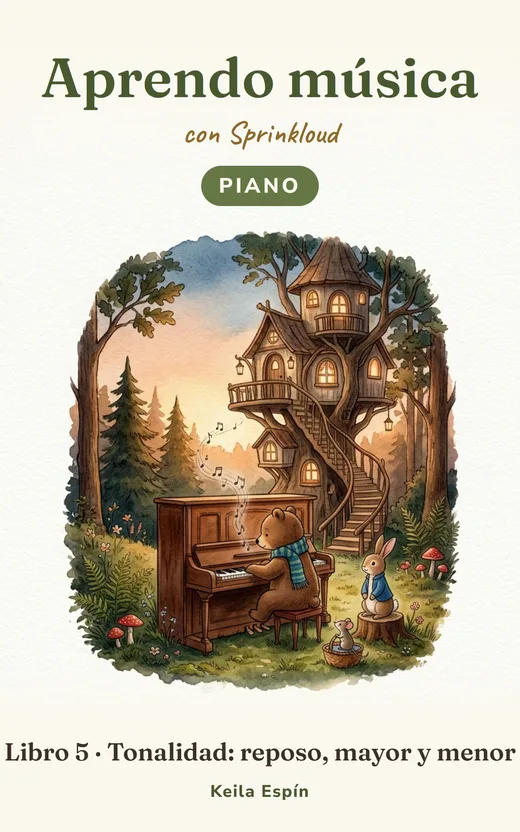
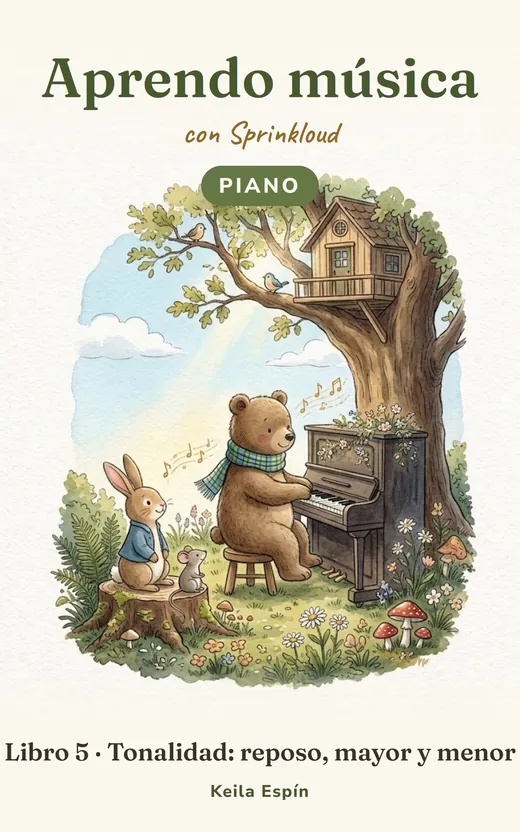
Planes después del video de la clase y portadas nuevas de los libros 5 a 7

diff --git a/index.html b/index.html
@@ -83,7 +83,25 @@
     <div class="cifra revela"><i class="ph ph-device-mobile"></i><b>App</b><span>Aprende teoría de forma divertida.</span></div>
   </section>
 
-  <!-- 2b. Planes, arriba: lo más importante de la página es que pague (dueña, 2-nov) -->
+
+  <!-- 3. Así es una clase: el video de Keila enseñando violín -->
+  <section class="clase" id="clase">
+    <div class="clase-video revela">
+      <video src="/sitio/img/clase-violin.mp4" poster="/sitio/img/clase-violin-poster.webp" controls playsinline preload="none" width="540" height="960" aria-label="Keila Espín explica cómo tomar el arco del violín"></video>
+    </div>
+    <div class="clase-txt">
+      <h2>Así es una clase en Sprinkloud.</h2>
+      <p class="lead">Tu maestro te ve, te escucha y te corrige en el momento: la postura, la mano, el arco. Como en persona, desde tu casa.</p>
+      <ul class="puntos">
+        <li class="revela"><i class="ph ph-eye"></i><div><b>Atención completa</b><span>La clase es solo tuya. Nadie más espera su turno.</span></div></li>
+        <li class="revela"><i class="ph ph-hand-pointing"></i><div><b>Corrección al instante</b><span>Los detalles que un video grabado no te señala.</span></div></li>
+        <li class="revela"><i class="ph ph-calendar-check"></i><div><b>Tu práctica lista</b><span>Sales de clase con tu práctica de la semana en la app.</span></div></li>
+      </ul>
+      <div class="cta-fila revela"><a class="btn esponja esponja-verde" href="#planes"><i class="ph ph-credit-card"></i> Pagar mi plan</a><a class="btn esponja esponja-blanca" href="https://wa.me/593987999154?text=Hola%20Anita%2C%20quiero%20informaci%C3%B3n%20sobre%20las%20clases" target="_blank" rel="noopener"><i class="ph ph-phone"></i> Escríbenos</a></div>
+    </div>
+  </section>
+
+  <!-- 3b. Planes, justo después de la muestra de la clase (dueña, 3-nov); antes iban arriba, después de las tarjetas -->
   <section class="planes" id="planes">
     <h2>Elige cómo quieres aprender.</h2>
     <p class="planes-sub">Todos los planes incluyen:</p>
@@ -137,23 +155,6 @@
       <i class="ph ph-device-mobile"></i>
       <p><b>¿Solo quieres practicar teoría?</b> La app completa, sin clases: USD 4,99 al mes o USD 39,99 al año.</p>
       <a class="enlace" href="https://wa.me/593987999154?text=Hola%2C%20quiero%20la%20app%20El%20bosque%20de%20Sprinkloud" target="_blank" rel="noopener">Quiero la app <i class="ph ph-arrow-up-right"></i></a>
-    </div>
-  </section>
-
-  <!-- 3. Así es una clase: el video de Keila enseñando violín -->
-  <section class="clase" id="clase">
-    <div class="clase-video revela">
-      <video src="/sitio/img/clase-violin.mp4" poster="/sitio/img/clase-violin-poster.webp" controls playsinline preload="none" width="540" height="960" aria-label="Keila Espín explica cómo tomar el arco del violín"></video>
-    </div>
-    <div class="clase-txt">
-      <h2>Así es una clase en Sprinkloud.</h2>
-      <p class="lead">Tu maestro te ve, te escucha y te corrige en el momento: la postura, la mano, el arco. Como en persona, desde tu casa.</p>
-      <ul class="puntos">
-        <li class="revela"><i class="ph ph-eye"></i><div><b>Atención completa</b><span>La clase es solo tuya. Nadie más espera su turno.</span></div></li>
-        <li class="revela"><i class="ph ph-hand-pointing"></i><div><b>Corrección al instante</b><span>Los detalles que un video grabado no te señala.</span></div></li>
-        <li class="revela"><i class="ph ph-calendar-check"></i><div><b>Tu práctica lista</b><span>Sales de clase con tu práctica de la semana en la app.</span></div></li>
-      </ul>
-      <div class="cta-fila revela"><a class="btn esponja esponja-verde" href="#planes"><i class="ph ph-credit-card"></i> Pagar mi plan</a><a class="btn esponja esponja-blanca" href="https://wa.me/593987999154?text=Hola%20Anita%2C%20quiero%20informaci%C3%B3n%20sobre%20las%20clases" target="_blank" rel="noopener"><i class="ph ph-phone"></i> Escríbenos</a></div>
     </div>
   </section>
 

diff --git a/CLAUDE.md b/CLAUDE.md
@@ -498,6 +498,9 @@ Publicado en https://sprinkloud.vercel.app/ (commits `3f6277f` en adelante, en `
 - Dar de alta el sitio en Google Search Console, verificar la propiedad y enviar `sitemap.xml` (lo hace la dueña con su cuenta; si Google entrega un archivo o etiqueta de verificación, se agrega al sitio).
 - Las páginas de la plantilla todavía tienen el estilo y el SEO anteriores.
 
+## Planes después de la clase (3-nov-2026)
+- Los planes ahora van justo después de «Así es una clase» (el video), y no arriba: la dueña quiere que primero vean la muestra de la clase. Las portadas 5 a 7 son las nuevas, de día.
+
 ## Anita en beige y pie pequeño (3-nov-2026)
 - **Anita:** fondo beige (`#f6efe2`), mensajitos verdes claros y botones de adentro esponjosos (planes, días, horas, atajos y enviar). La cabecera y el borde siguen verdes.
 - **Sin «Tu maestro por WhatsApp»** en los planes: la dueña dijo que sobra. Los términos siguen mencionando la comunicación con el maestro.
